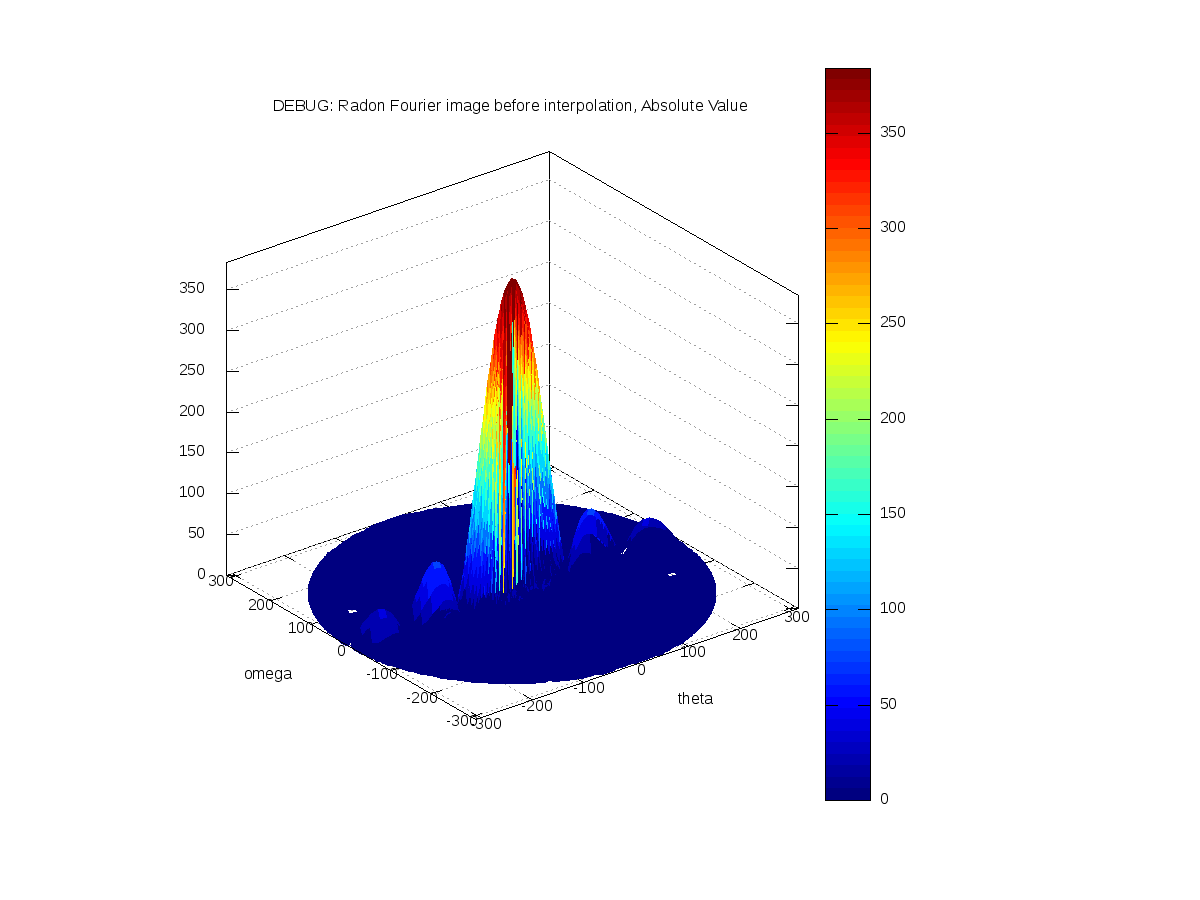
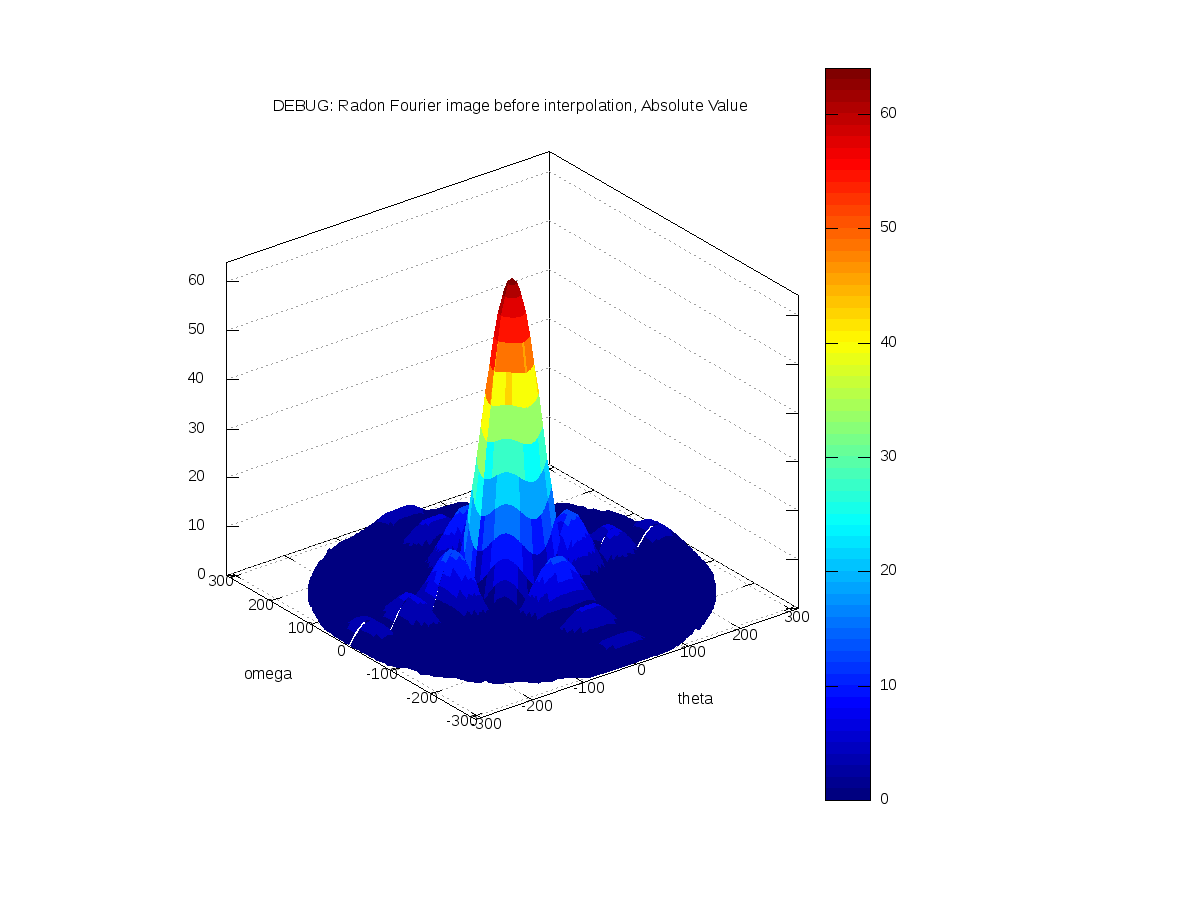
Playing with square pulse

diff --git a/branches/run.m b/branches/run.m
@@ -30,13 +30,13 @@ theta=linspace(0,180-1,180);
 %P(12,12)=1;
 
 % a stripe
-T=6;
-P=[zeros(N,(N-T)/2) ones(N,T) zeros(N,(N-T)/2)];
-
-% a square
-%T=30;
+%T=6;
 %P=[zeros(N,(N-T)/2) ones(N,T) zeros(N,(N-T)/2)];
-%P=P'.*P; %image of square
+
+% a square (T must be even)
+T=8;
+P=[zeros(N,(N-T)/2) ones(N,T) zeros(N,(N-T)/2)];
+P=P'.*P; %image of square
 
 % a 45deg straight line
 %P=eye(N);
